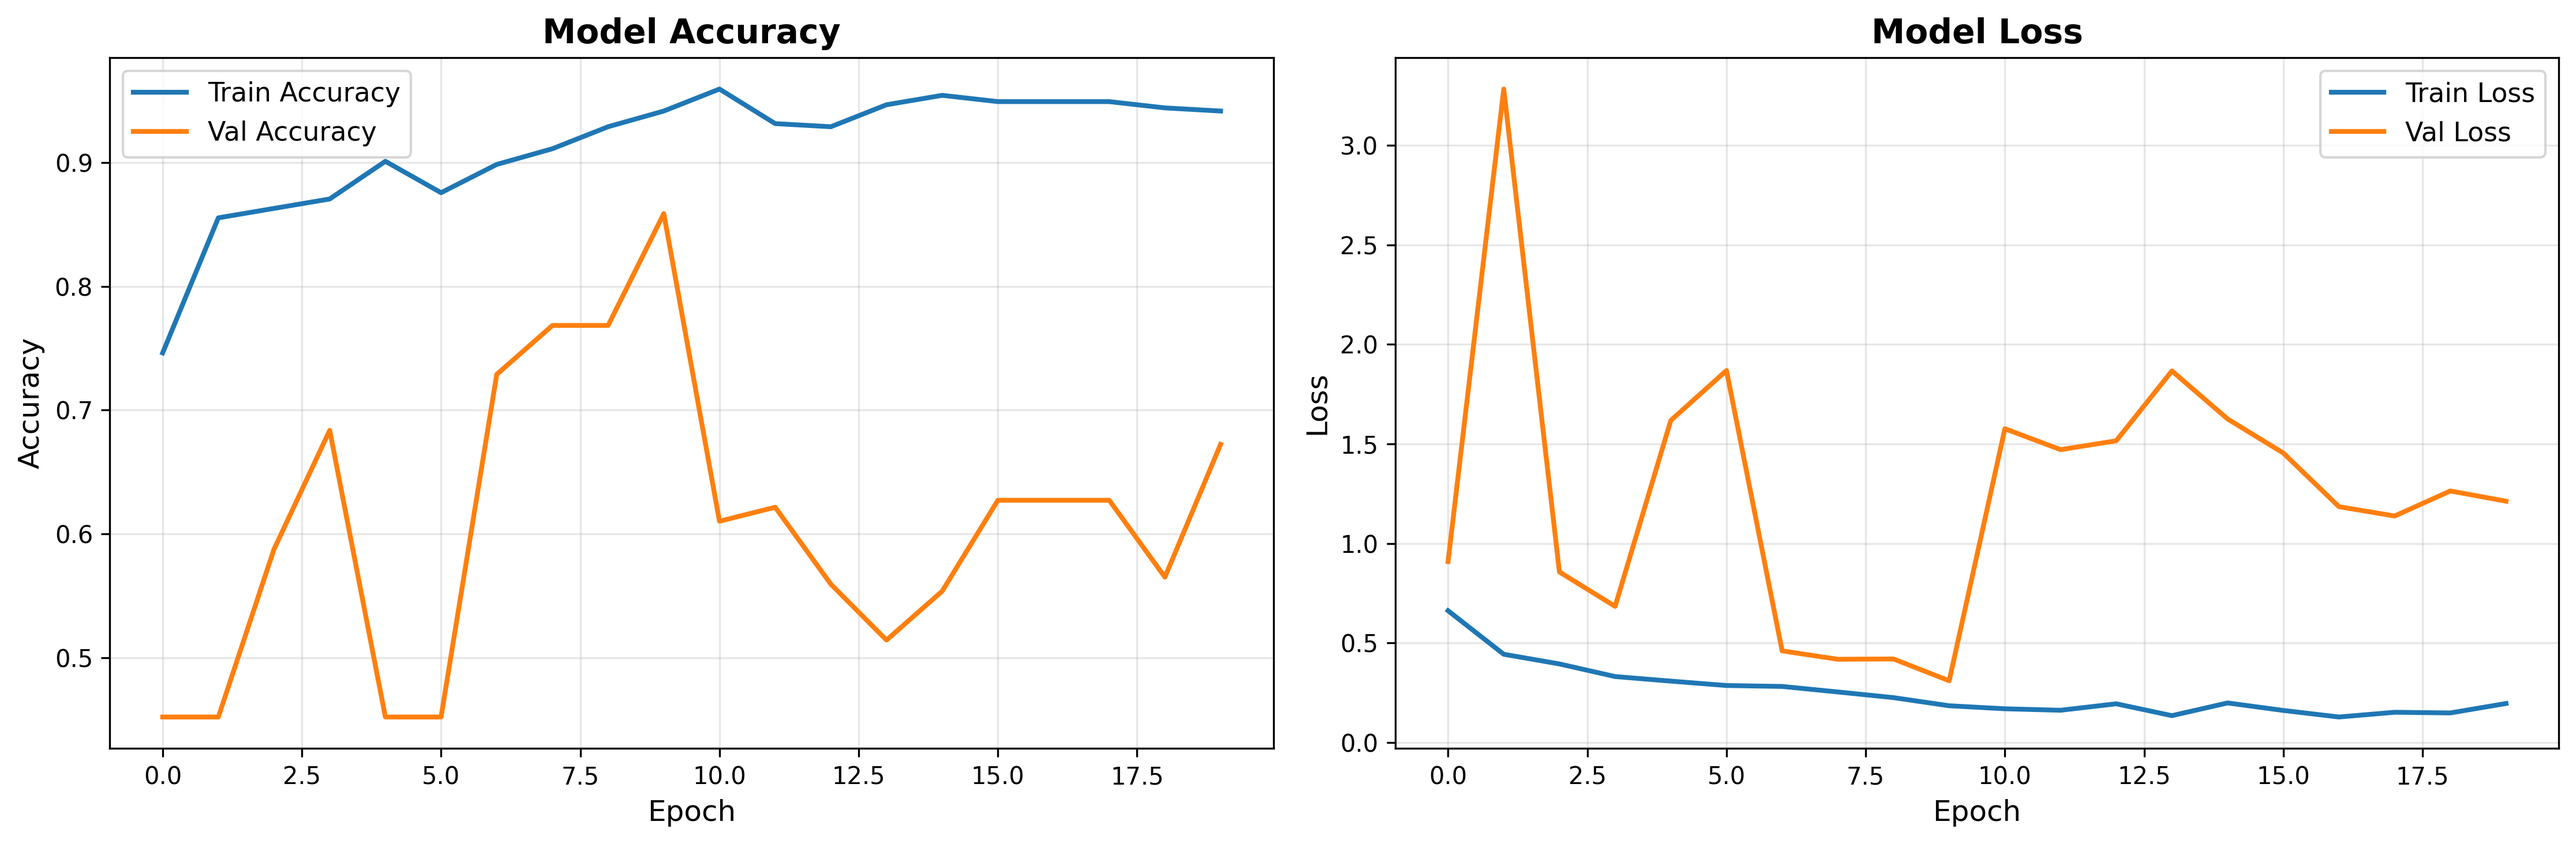
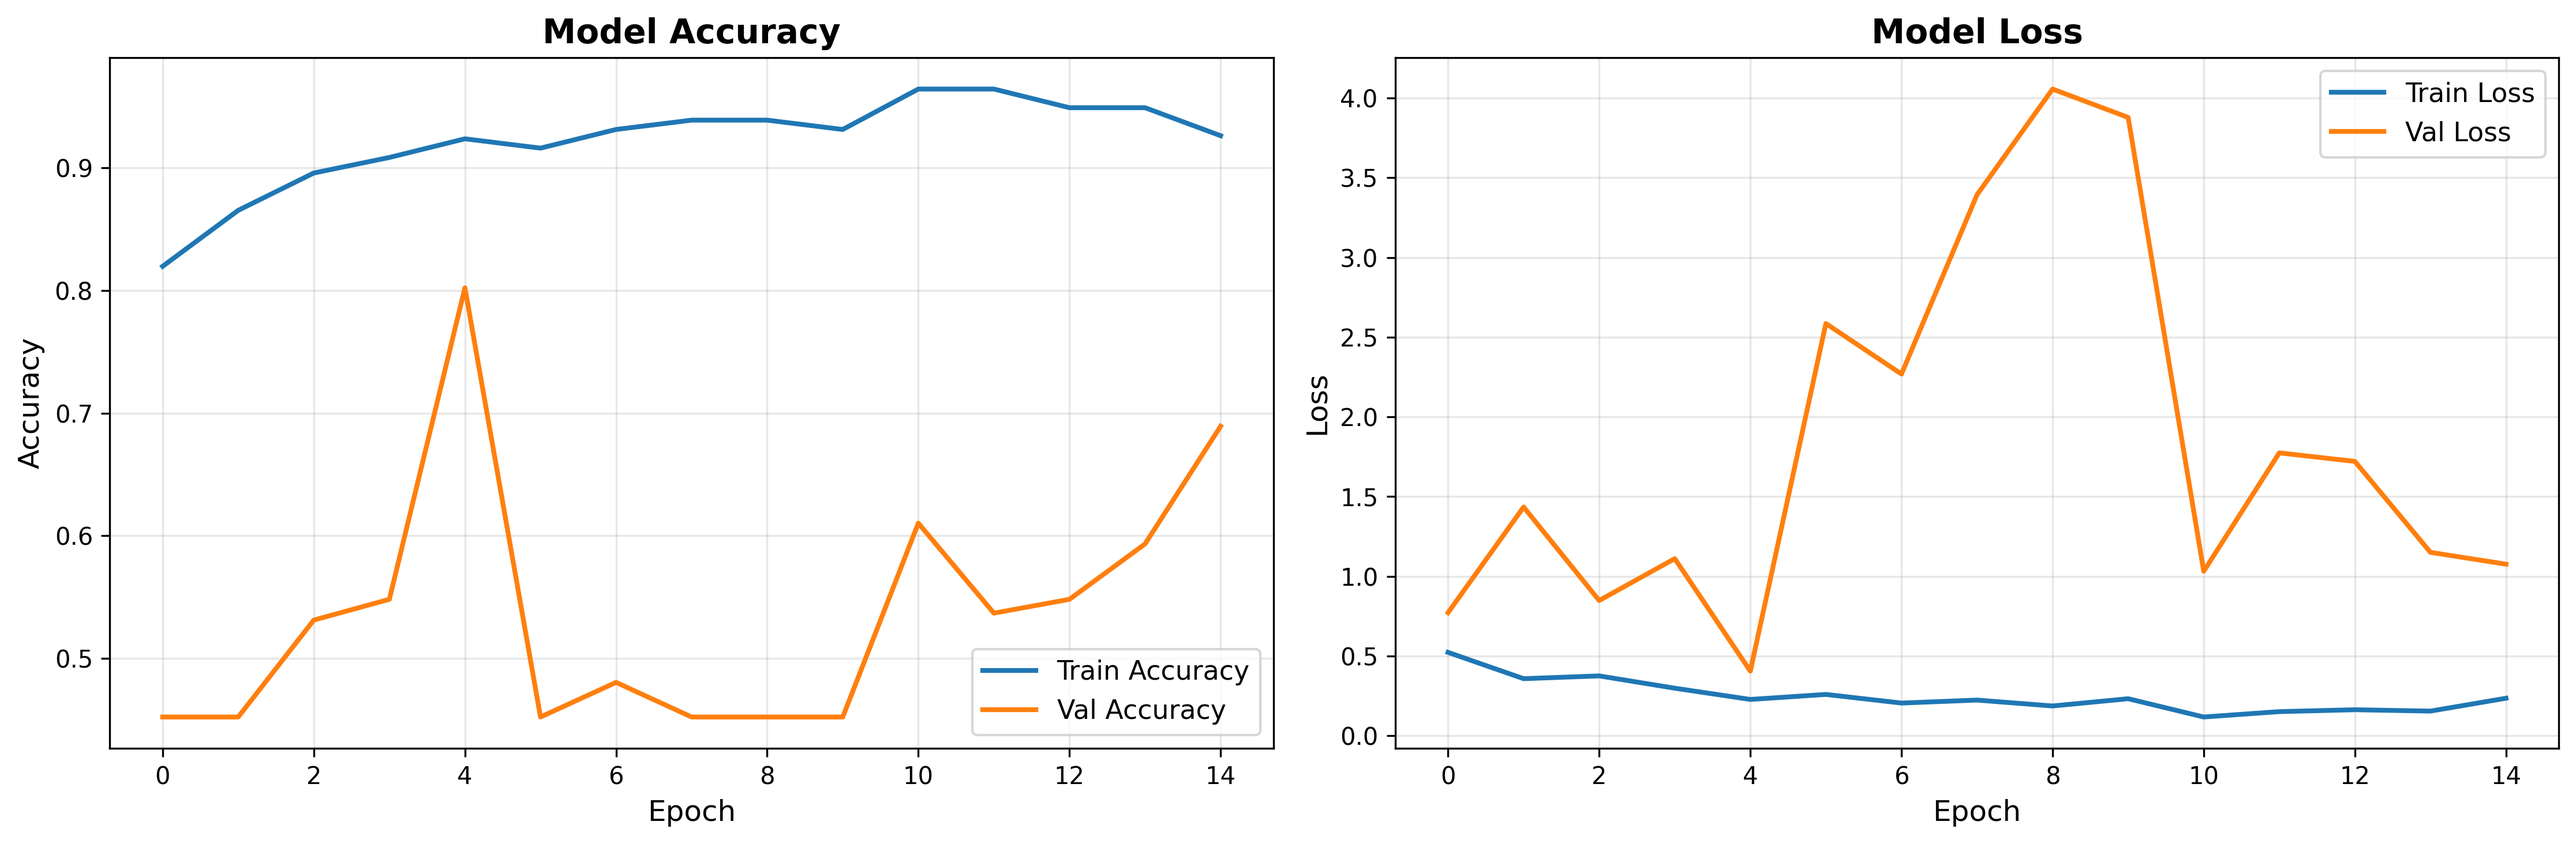
Sử dụng Git LFS để lưu model .h5

diff --git a/README.md b/README.md
@@ -38,8 +38,6 @@ PROJECT_TOMATO/
 ├── models/
 │   └── best_model.h5       # Mô hình CNN đã huấn luyện
 │
-├── notebooks/              # Notebook demo/training (tuỳ chọn)
-│
 ├── src/
 │   ├── data_prep.py        # Tiền xử lý dữ liệu ảnh
 │   ├── train.py            # Huấn luyện mô hình CNN
@@ -47,8 +45,10 @@ PROJECT_TOMATO/
 │   ├── infer.py            # Dự đoán ảnh mới
 │
 ├── pyproject.toml          # (nếu dùng uv)
-├── README.md
-└── .gitattributes
+├── README.md               # File hướng dẫn này
+├── .gitignore              # Chỉ định các file/thư mục Git bỏ qua
+├── requirements.txt        # Danh sách các thư viện cần thiết
+└── .gitattributes          
 ```
 
 ---
@@ -67,7 +67,7 @@ uv venv
 
 **Windows:**
 ```bash
-.venv\Scripts\activate
+.venv\Scripts\activate.ps1
 ```
 
 **Linux/macOS:**
@@ -83,7 +83,7 @@ uv sync
 
 Hoặc cài thủ công:
 ```bash
-uv pip install tensorflow keras numpy matplotlib pillow opencv-python
+uv pip install tensorflow numpy matplotlib pillow opencv-python scipy
 ```
 
 ---
@@ -109,15 +109,15 @@ uv run src/infer.py
 
 ## 🧬 Cấu trúc mô hình CNN (đề xuất)
 
-| Lớp | Mô tả |
-|-----|--------|
-| Conv2D(32, 3x3, ReLU) | Trích xuất đặc trưng cấp thấp |
-| MaxPooling2D(2x2) | Giảm kích thước ảnh |
-| Conv2D(64, 3x3, ReLU) | Trích xuất đặc trưng sâu hơn |
-| MaxPooling2D(2x2) | Giảm chiều dữ liệu |
-| Flatten | Chuyển ma trận thành vector |
-| Dense(128, ReLU) | Lớp fully-connected |
-| Dense(2, Softmax) | Phân loại 2 lớp (Xanh/Chín) |
+|Lớp	                                | Mô tả                                        |
+|Block 1                                | (Conv, BatchNorm, Pool, Dropout)	32 filters |
+|Block 2                                | (Conv, BatchNorm, Pool, Dropout)	64 filters |
+|Block 3                                | (Conv, BatchNorm, Pool, Dropout)	128 filters|
+|Block 4                                | (Conv, BatchNorm, Pool, Dropout)	256 filters|
+|Flatten	                            | Chuyển ma trận thành vector                  |
+|Dense(512, ReLU, BatchNorm, Dropout)	| Lớp fully-connected                          |
+|Dense(128, ReLU, BatchNorm, Dropout)	| Lớp fully-connected                          |
+|Dense(2, Softmax)	                    | Phân loại 2 lớp (Xanh/Chín)                  |
 
 ---
 
